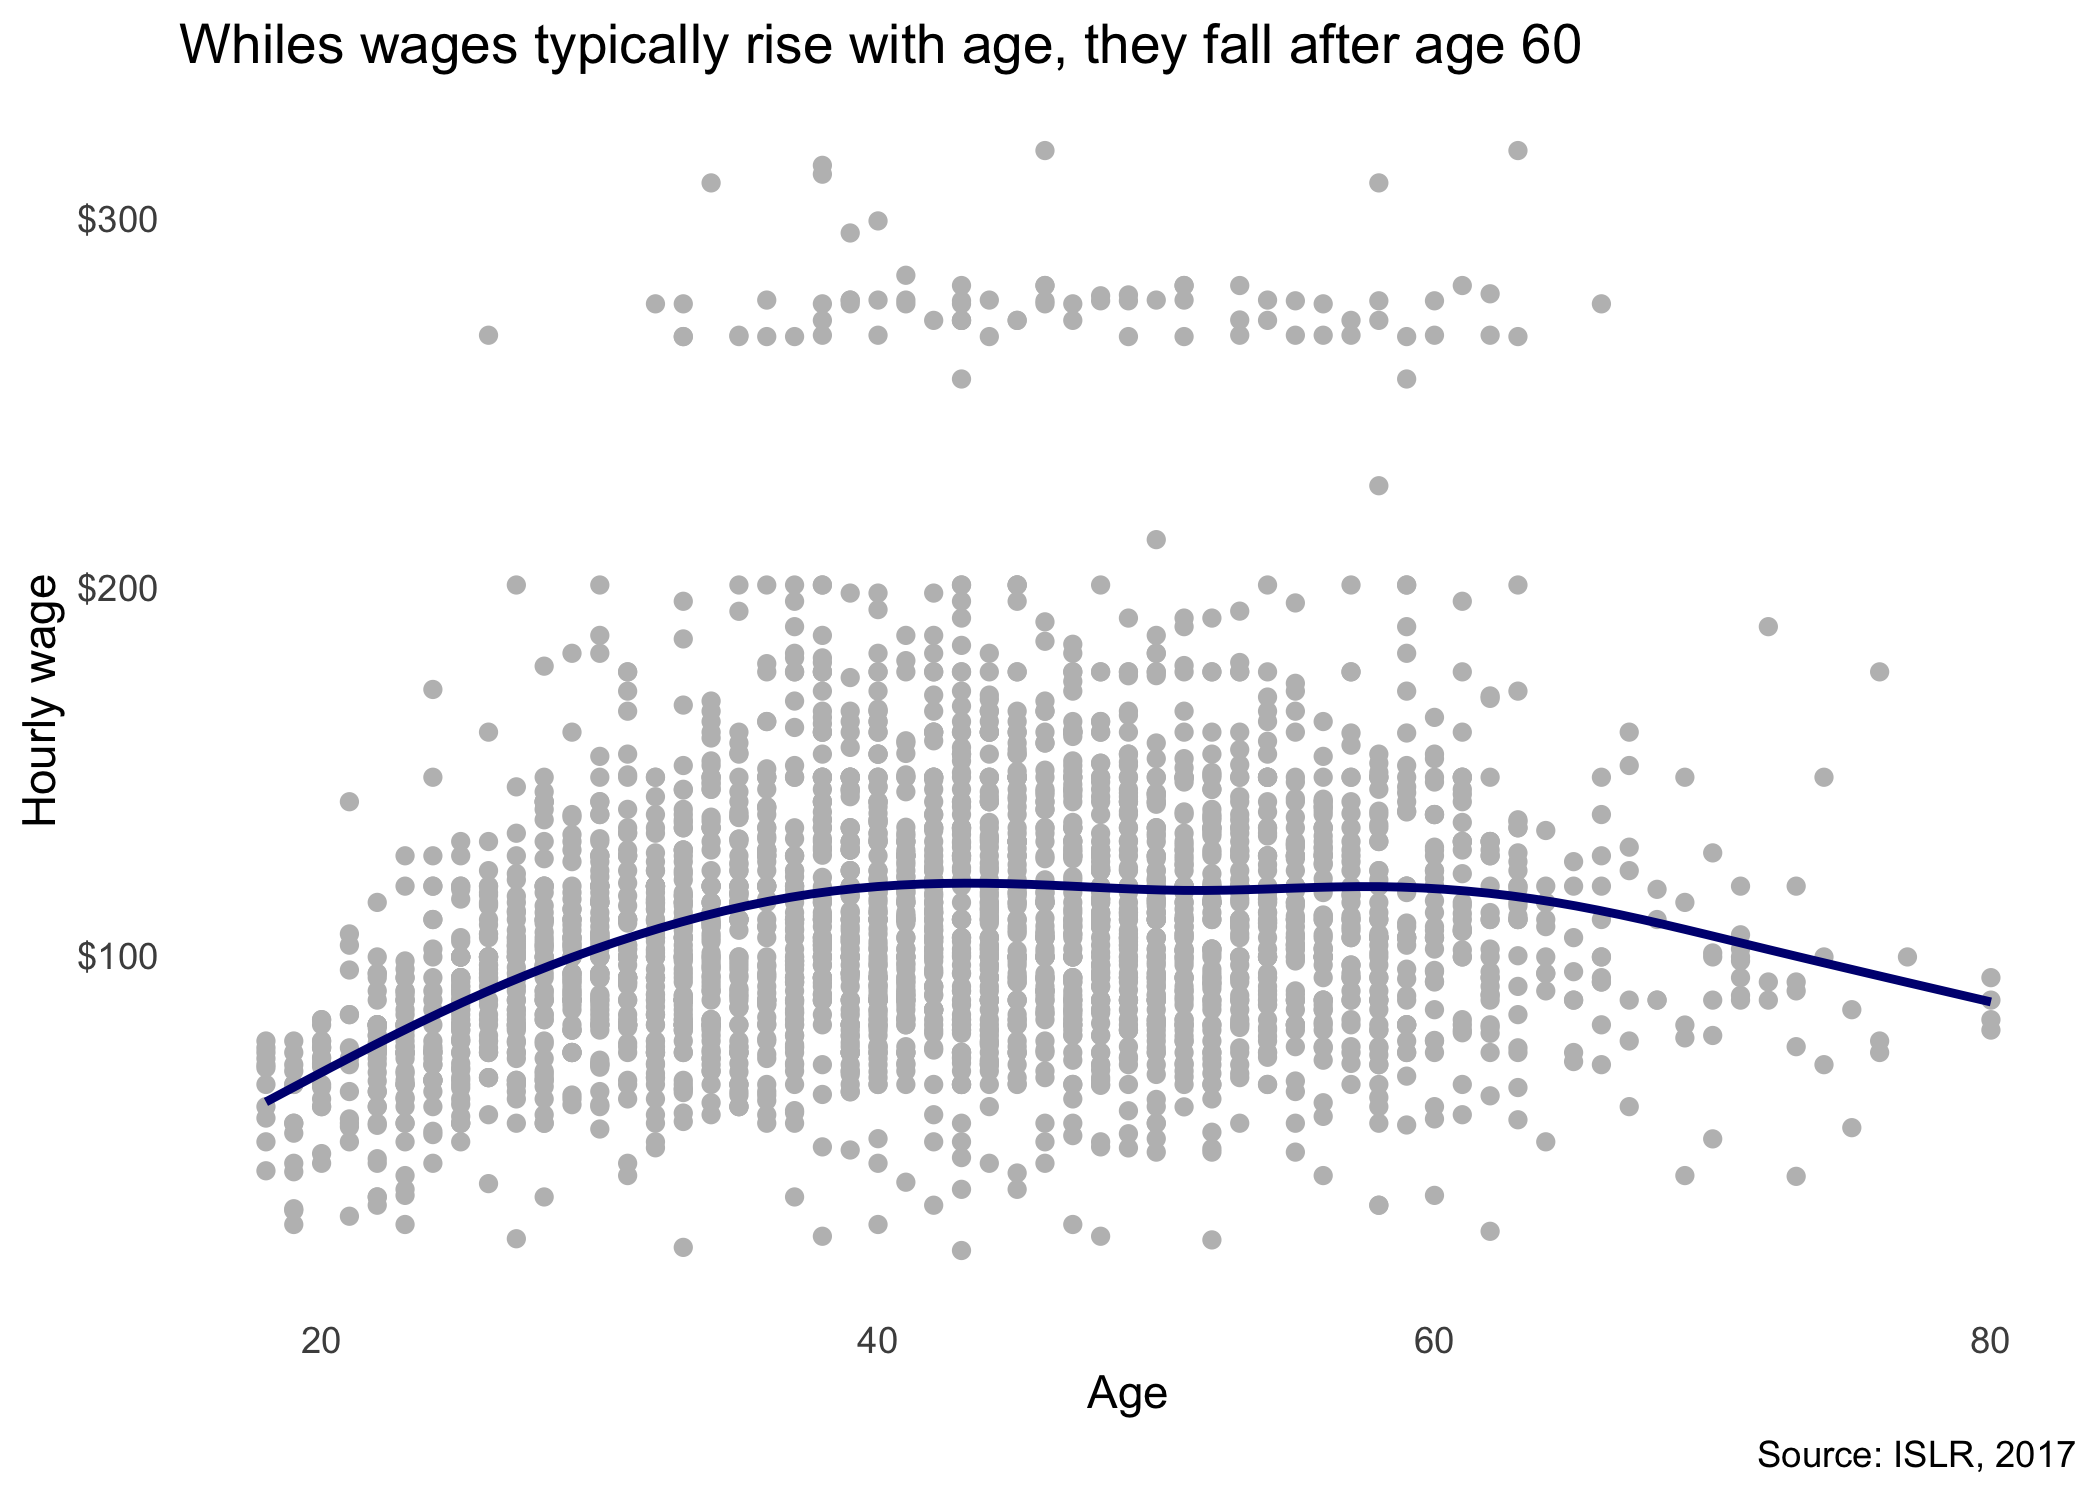
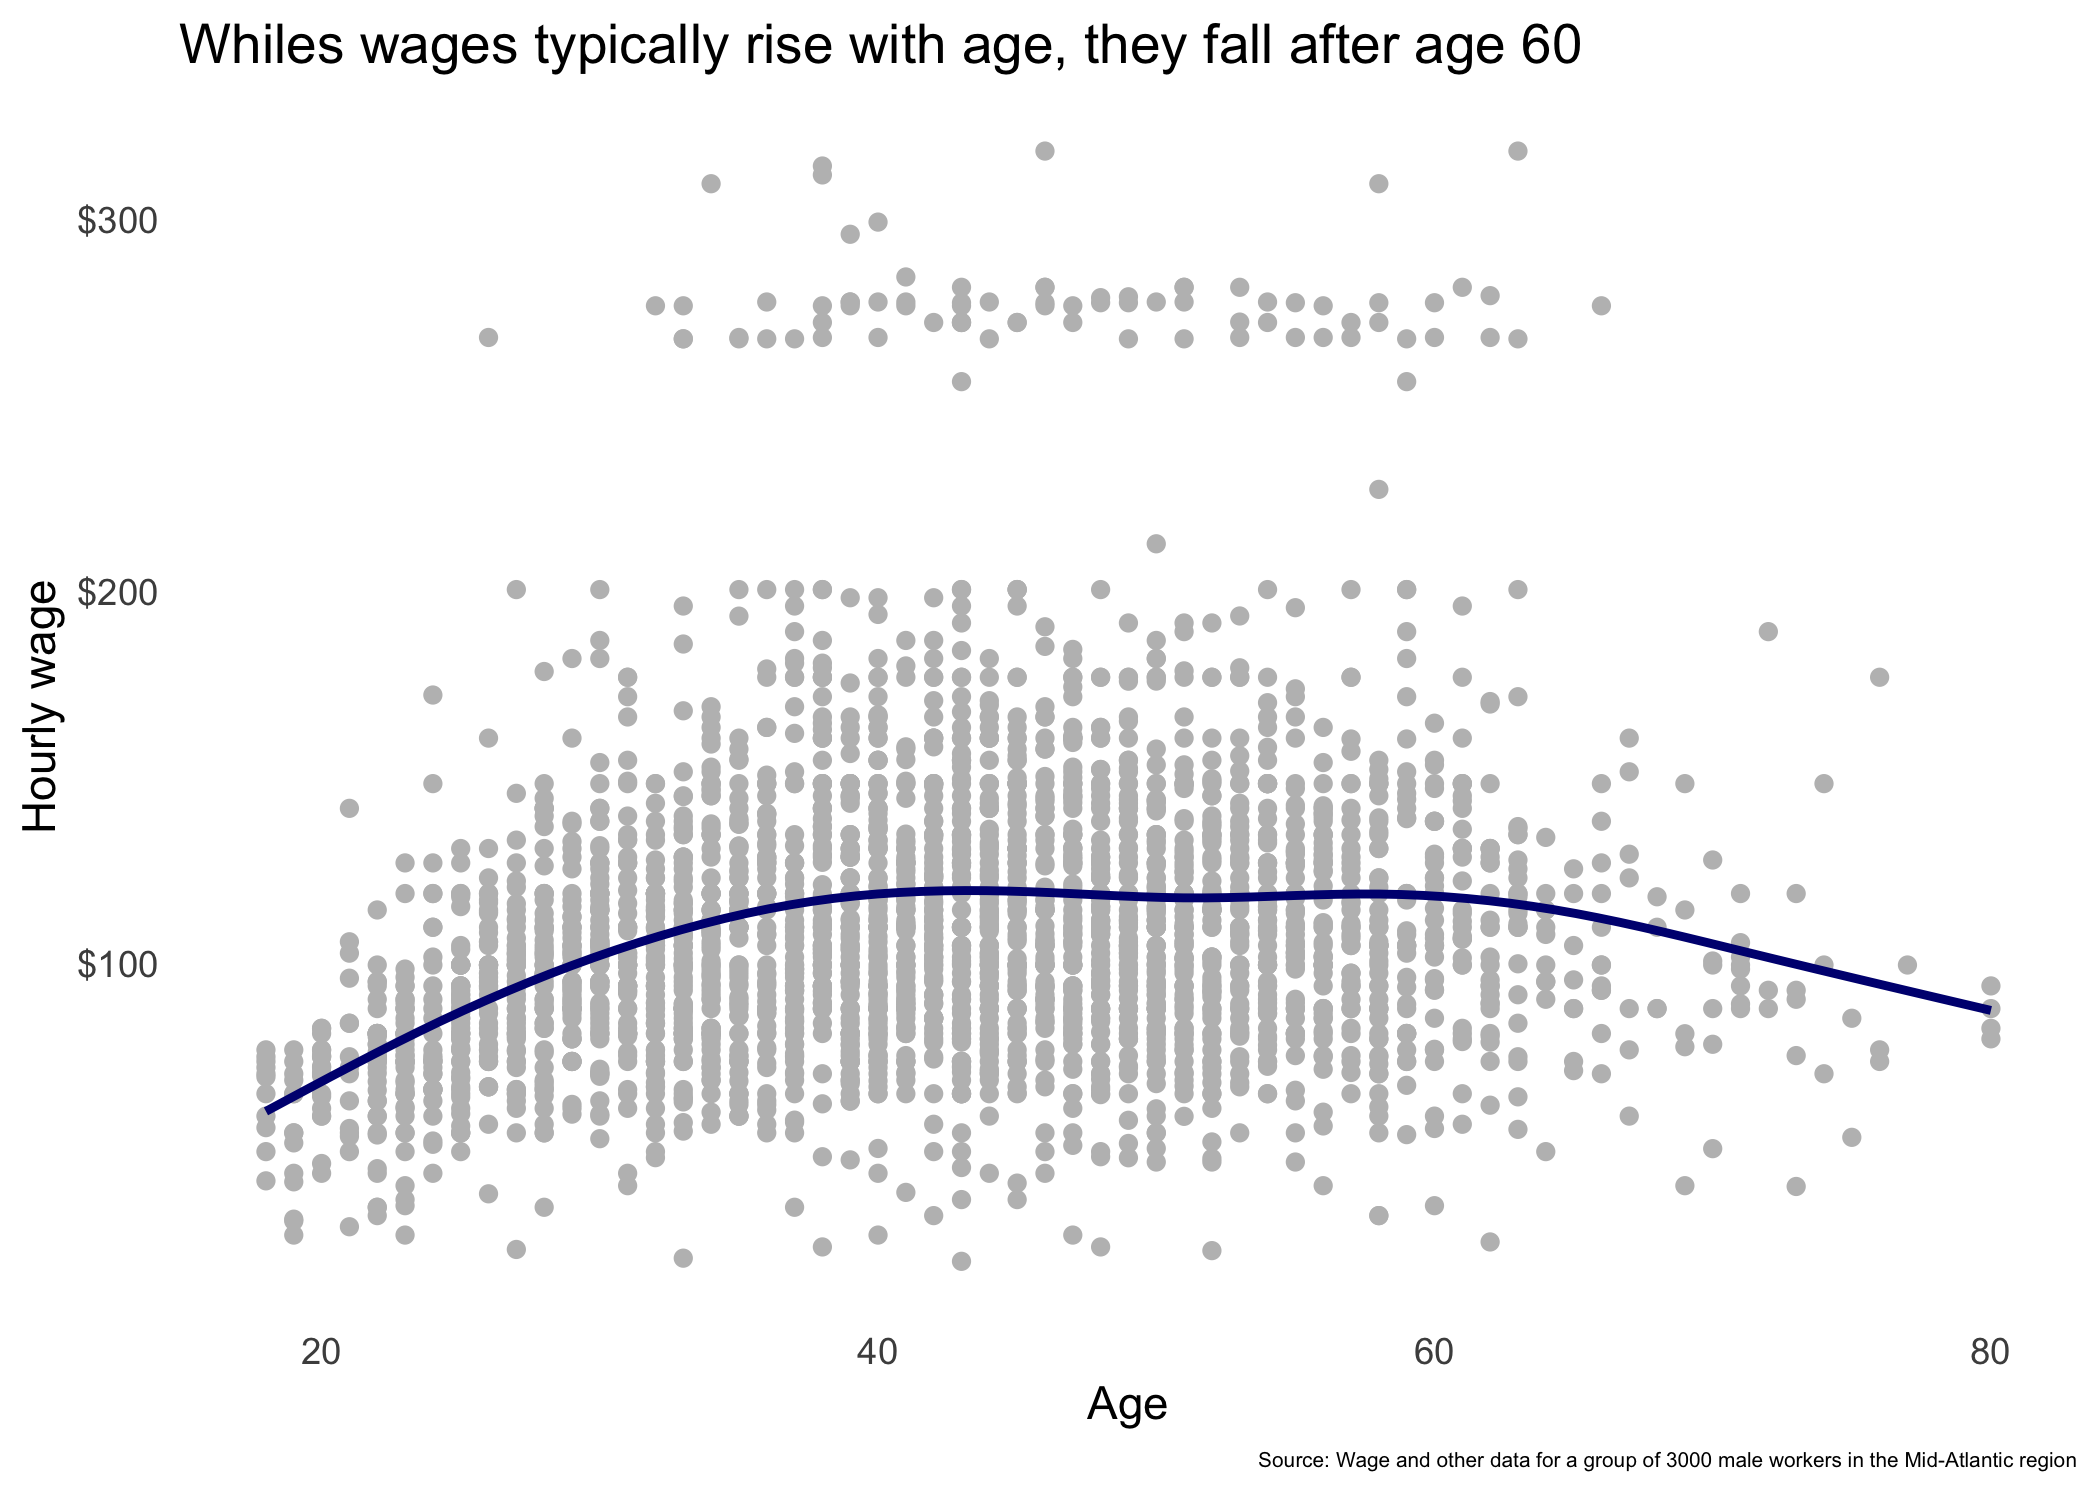
Caption texts more specific. Resolution of images is higher.

diff --git a/01_introduction/README.md b/01_introduction/README.md
@@ -3,15 +3,26 @@ Introduction
 Cristian E. Nuno
 January 20, 2019
 
+-   [Introduction](#introduction)
+    -   [Wage Data](#wage-data)
+    -   [Stock Market Data](#stock-market-data)
+
 ``` r
 # load necessary packages ----
+library(gridExtra)  # misc. functions for 'grid' graphics
 library(ISLR)       # data for ISLR examples
 library(scales)     # scale functions for visualizations
 library(tidyverse)  # data science packages
 
 # load necessary objects ----
-caption.text <- "Source: ISLR, 2017"
-my.theme <- theme_minimal() + theme(panel.grid = element_blank())
+wage.text <- "Source: Wage and other data for a group of 3000 male workers in the Mid-Atlantic region"
+
+stock.text <- "Source: Daily percentage returns for the S&P 500 stock index between 2001 and 2005"
+
+my.theme <- 
+  theme_minimal() + 
+  theme(panel.grid = element_blank()
+        , plot.caption = element_text(size = 5))
 
 # set dpi for all chunks ----
 knitr::opts_chunk$set(dpi = 300)
@@ -29,7 +40,7 @@ Wage Data
 
 In particular, we wish to understand the association between an employee’s age and education, as well as the calendar year, on his wage.
 
-The [`Wage`](https://rdrr.io/cran/ISLR/man/Wage.html) data set involves predicting a **continuous** or **quantitative** output value, which is referred to as a **regression** problem.
+The [`Wage`](https://www.rdocumentation.org/packages/ISLR/versions/1.2/topics/Wage) data set involves predicting a **continuous** or **quantitative** output value, which is referred to as a **regression** problem.
 
 ``` r
 # hourly wage described by age ----
@@ -41,7 +52,7 @@ Wage %>%
   ylab("Hourly wage") +
   scale_y_continuous(labels = dollar) +
   labs(title = "Whiles wages typically rise with age, they fall after age 60"
-       , caption = caption.text) +
+       , caption = wage.text) +
   my.theme
 ```
 
@@ -57,7 +68,7 @@ Wage %>%
   ylab("Hourly wage") +
   scale_y_continuous(labels = dollar) +
   labs(title = "On average, hourly wage rises slighly over time"
-       , caption = caption.text) +
+       , caption = wage.text) +
   my.theme
 ```
 
@@ -67,14 +78,53 @@ Wage %>%
 # hourly wage described by education ----
 Wage %>%
   ggplot(aes(x = education, y = wage, fill = education)) +
-  geom_boxplot() +
-  scale_fill_brewer(name = "Education level", type = "qual", palette = "Accent") +
+  geom_boxplot(show.legend = FALSE) +
+  scale_fill_brewer(type = "qual", palette = "Accent") +
   xlab("Education level") +
   ylab("Hourly wage") +
   scale_y_continuous(labels = dollar) +
   labs(title = "On average, hourly wage rises with higher levels of educational attainment"
-       , caption = caption.text) +
+       , caption = wage.text) +
   my.theme
 ```
 
 ![](README_files/figure-markdown_github/wage%20plots-3.png)
+
+Stock Market Data
+-----------------
+
+When we wish to predict a non-numerical value - a **categorical** or **qualitative** output, this is known as a **classification** problem. Let's examine the [`Smarket`](https://www.rdocumentation.org/packages/ISLR/versions/1.2/topics/Smarket) data set.
+
+``` r
+# produce a boxplot per lag ----
+LagPlot <- function(col) {
+  # only show caption with Lag3 plot
+  if (col == "Lag3") {
+    caption <- stock.text
+  } else {
+    caption <- ""
+  }
+  
+  Smarket %>%
+    ggplot(aes(x = Direction, y = get(col), fill = Direction)) +
+    geom_boxplot(show.legend = FALSE) +
+    scale_fill_manual(values = c("#fd3504", "#04ccfd")) +
+    ylab("Percentage change in S&P") +
+    labs(caption = caption) +
+    my.theme +
+    theme(plot.title = element_text(hjust = 0.5))
+    
+}
+
+# store plots in a list ----
+stock.plots <- 
+  paste0("Lag", 1:3) %>%
+  set_names() %>%
+  map2(.y = c("Yesterday", paste0(c("Two", "Three"), " day's previous"))
+       , .f = ~ LagPlot(.x) + labs(title = .y))
+
+# have all 3 plots in one plot space ----
+grid.arrange(stock.plots$Lag1, stock.plots$Lag2, stock.plots$Lag3, ncol = 3)
+```
+
+![](README_files/figure-markdown_github/stock%20plots-1.png)
